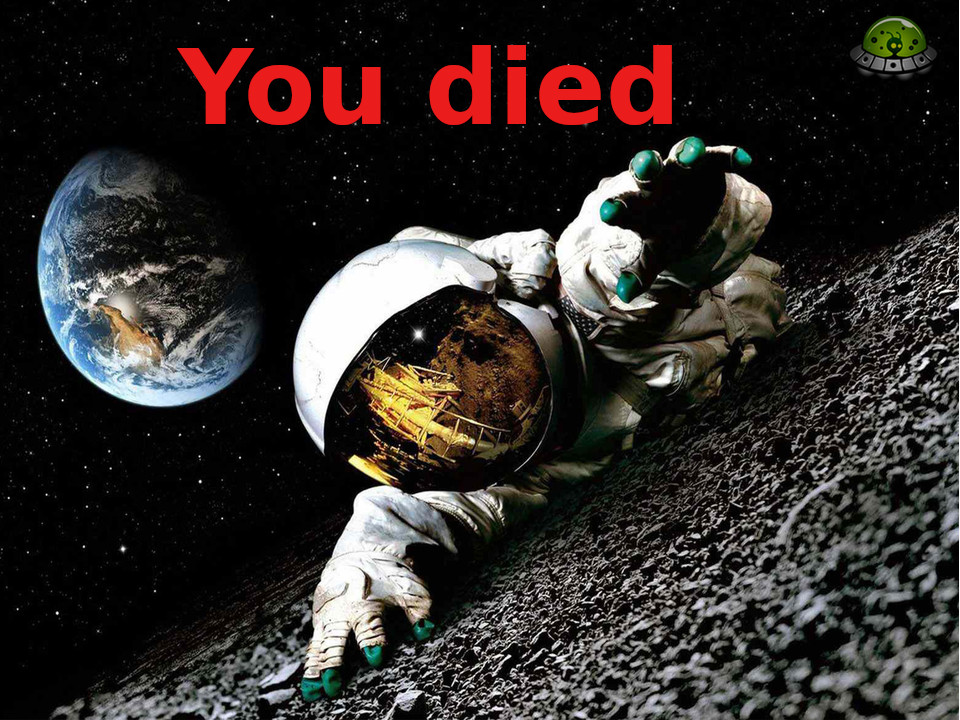
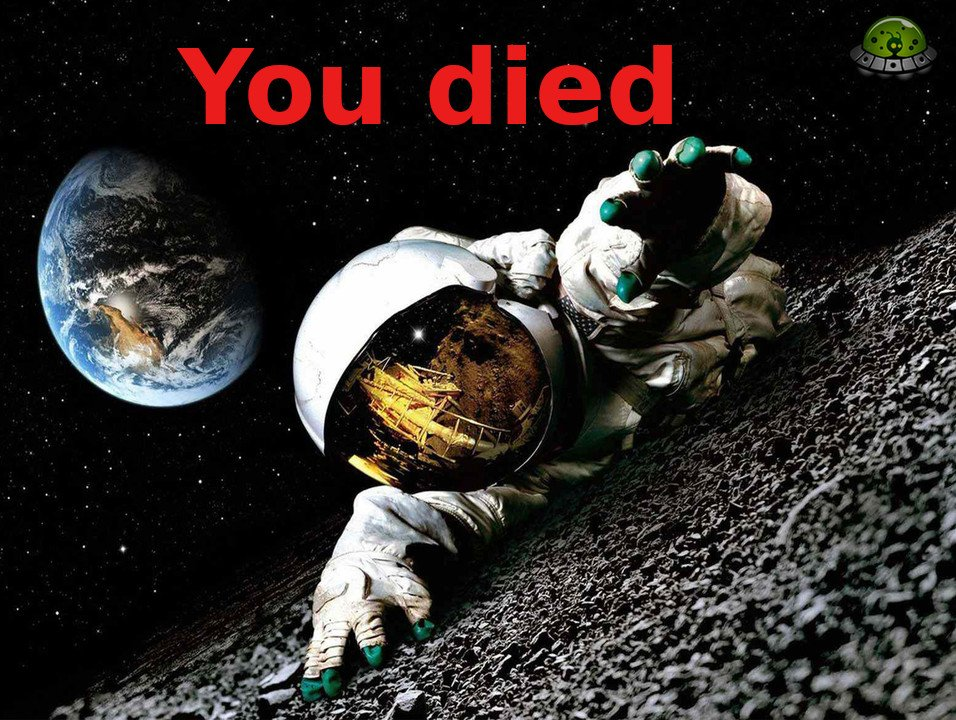
add shoot and game_over sounds. fix you_died.jpg\

diff --git a/controls.py b/controls.py
@@ -4,8 +4,10 @@ from random import choice, randint
 from rocket import Rocket
 from ufo import Ufo
 
+count_clear_level = 0
 
-def events(screen, spaceship, rockets):
+
+def events(screen, spaceship, rockets, shoot):
     """обработка нажатий клавиш"""
     for event in pygame.event.get():
         if event.type == pygame.QUIT:
@@ -16,6 +18,7 @@ def events(screen, spaceship, rockets):
             elif event.key == pygame.K_LEFT:
                 spaceship.move_left = True
             elif event.key == pygame.K_SPACE:
+                shoot.play()
                 new_rocket = Rocket(screen, spaceship)
                 rockets.add(new_rocket)
         elif event.type == pygame.KEYUP:
@@ -28,8 +31,6 @@ def events(screen, spaceship, rockets):
 def update(bg_image, screen, stats, scs, spaceship, ufos, rockets, lives):
     """обновление экрана"""
     screen.blit(bg_image, (0, 0))
-    scs.show_score()
-    rockets.draw(screen)
     live_width = lives.rect.width
     for live_number in range(stats.lives):
         lives.x = 10 + (live_width * live_number * 1.3)  # расположение жизней на экране
@@ -37,6 +38,8 @@ def update(bg_image, screen, stats, scs, spaceship, ufos, rockets, lives):
         lives.rect.x = lives.x
         lives.rect.y = lives.y
         lives.output()
+    scs.show_score()
+    rockets.draw(screen)
     ufos.draw(screen)
     spaceship.output()
     pygame.display.update()
@@ -59,10 +62,8 @@ def update_rockets(stats, scs, ufos, rockets, hit):
         check_high_score(stats, scs)
 
 
-count_clear_level = 0
-
-
-def update_ufos(stats, screen, spaceship, ufos, rockets, level_failed, you_died, crush, next_level, msg_next_level):
+def update_ufos(stats, screen, spaceship, ufos, rockets, level_failed, you_died, crush, next_level, msg_next_level,
+                game_over, bg_image):
     """обновляет позицию пришельцев"""
     ufos.update()
     global count_clear_level
@@ -77,7 +78,7 @@ def update_ufos(stats, screen, spaceship, ufos, rockets, level_failed, you_died,
         time.sleep(3)
         create_ufos_army(screen, ufos, speed=speed)
     speed = count_clear_level
-    ufos_bottom_line(stats, screen, spaceship, ufos, rockets, speed, level_failed, you_died, crush)
+    ufos_bottom_line(stats, screen, spaceship, ufos, rockets, speed, level_failed, you_died, crush, game_over, bg_image)
 
 
 def create_ufos_army(screen, ufos, speed=0):
@@ -105,12 +106,11 @@ def create_ufos_army(screen, ufos, speed=0):
             ufos.add(ufo)
 
 
-def spaceship_kill(stats, screen, spaceship, ufos, rockets, speed, level_failed, you_died, crush):
+def spaceship_kill(stats, screen, spaceship, ufos, rockets, speed, level_failed, you_died, crush, game_over, bg_image):
     """изменения при столкновение космического корабля и пришельца"""
     stats.lives -= 1
     if stats.lives > 0:
         pygame.mixer_music.pause()
-        time.sleep(1)
         crush.play()
         time.sleep(4)
         screen.blit(level_failed, (0, 0))
@@ -122,18 +122,23 @@ def spaceship_kill(stats, screen, spaceship, ufos, rockets, speed, level_failed,
         create_ufos_army(screen, ufos, speed=speed)
         spaceship.create_spaceship()
     else:
-        screen.blit(you_died, (160, 0))  # прорисовка экрана смерти на главном экране
-        pygame.display.flip()
-        time.sleep(5)
+        screen.blit(bg_image, (0, 0))
+        screen.blit(you_died, (160, 0))  # прорисовка экрана смерти на главном экране на фоне bg_image
+        pygame.display.update()
+        pygame.mixer_music.stop()
+        game_over.play()
+        time.sleep(6)
         stats.play_game = False
         sys.exit()
 
 
-def ufos_bottom_line(stats, screen, spaceship, ufos, rockets, speed, level_failed, you_died, crush):
+def ufos_bottom_line(stats, screen, spaceship, ufos, rockets, speed, level_failed, you_died, crush, game_over,
+                     bg_image):
     """проверка, дошли ли пришельцы до линии космического корабля"""
     for ufo in ufos.sprites():
         if ufo.rect.bottom == spaceship.rect.top:
-            spaceship_kill(stats, screen, spaceship, ufos, rockets, speed, level_failed, you_died, crush)
+            spaceship_kill(stats, screen, spaceship, ufos, rockets, speed, level_failed, you_died, crush, game_over,
+                           bg_image)
             break
 
 

diff --git a/space_game.py b/space_game.py
@@ -17,12 +17,16 @@ def run():
     pygame.mixer.music.load('sounds/bg_music.mp3')
     pygame.mixer.music.play(-1, 27.0, 4000)
     pygame.mixer.music.set_volume(0.2)
+    shoot=pygame.mixer.Sound('sounds/shoot.mp3')
+    shoot.set_volume(0.4)
     hit = pygame.mixer.Sound('sounds/bang.ogg')
     hit.set_volume(0.4)
     crush = pygame.mixer.Sound('sounds/crush_spaceship.ogg')
     crush.set_volume(0.4)
     next_level = pygame.mixer.Sound('sounds/level.ogg')
     next_level.set_volume(0.5)
+    game_over = pygame.mixer.Sound('sounds/game_over.mp3')
+    game_over.set_volume(0.5)
 
     icon = pygame.image.load('images/icon.png')
     bg_image = pygame.image.load('images/space.png')
@@ -45,11 +49,11 @@ def run():
     msg_next_level = NextLevel(screen)
 
     while True:
-        controls.events(screen, spaceship, rockets)
+        controls.events(screen, spaceship, rockets, shoot)
         if stats.play_game:
             spaceship.update_position()
             controls.update_ufos(stats, screen, spaceship, ufos, rockets, level_failed, you_died, crush, next_level,
-                                 msg_next_level)
+                                 msg_next_level, game_over, bg_image)
             controls.update_rockets(stats, scs, ufos, rockets, hit)
             controls.update(bg_image, screen, stats, scs, spaceship, ufos, rockets, lives)
             clock.tick(FPS)

diff --git a/ufo.py b/ufo.py
@@ -9,7 +9,7 @@ class Ufo(pygame.sprite.Sprite):
         self.screen = screen
         self.image = pygame.image.load('images/ufo.png')
         self.rect = self.image.get_rect()
-        self.speed = 0.1
+        self.speed = 0.9
         self.rect.x = self.rect.width
         self.rect.y = self.rect.height
         self.x = float(self.rect.x)

diff --git a/README.md b/README.md
@@ -2,6 +2,7 @@
 <h1 align="center"> Игра в стиле космической стрелялки 🌍👽</h1>
 <p>- в игре предусмотрены 3 жизни</p>
 <p>- увеличение скорости пришельцев при успешном прохождении уровня</p>
+<p>- звуки (фоновая музыка, выстрелы, взрывы, провал уровня, пройденный уровень, игра окончена)</p>
 <p>- текущий счет убитых пришельцев в режиме онлайн</p>
 <p>- текущий рекорд </p>
 
